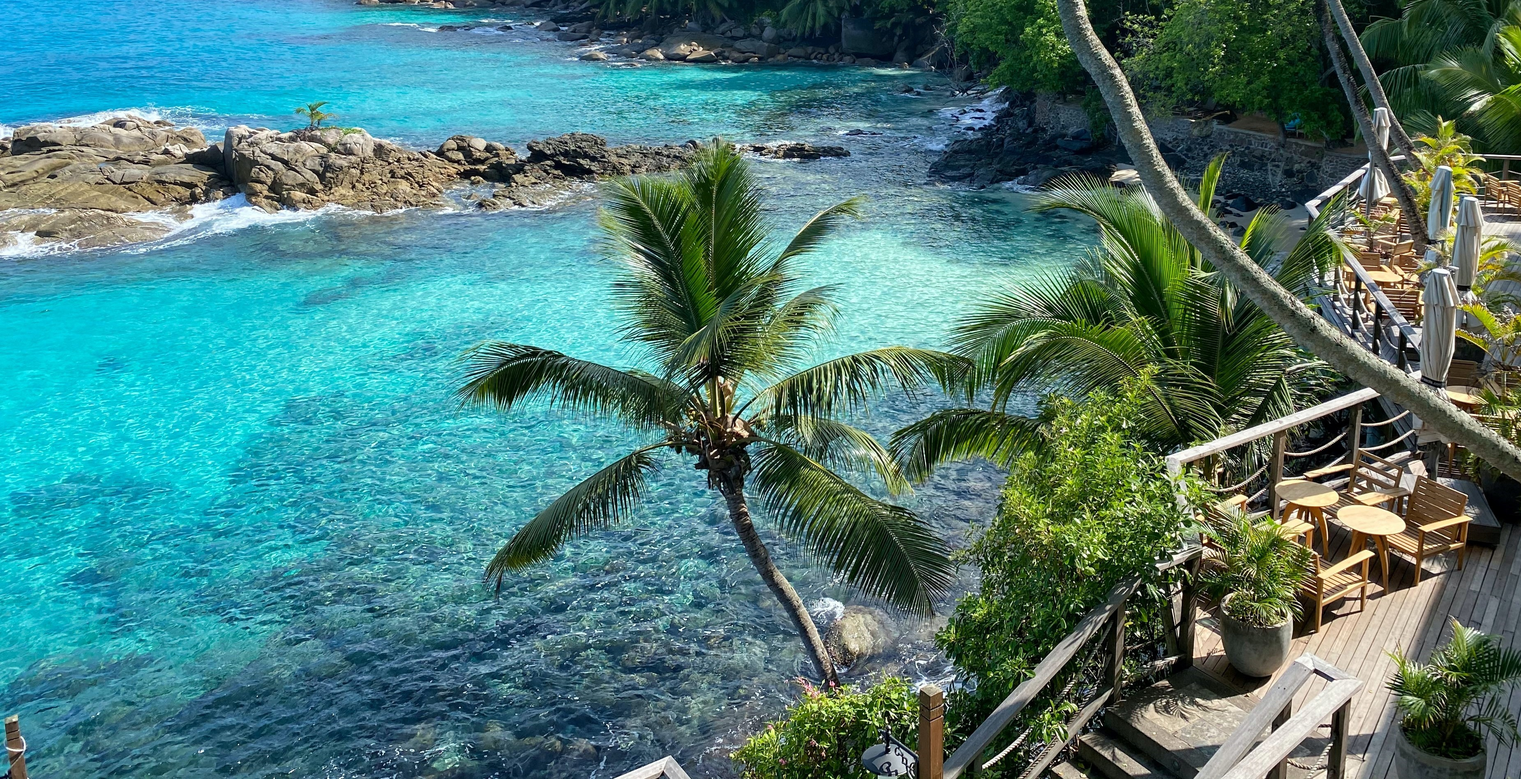
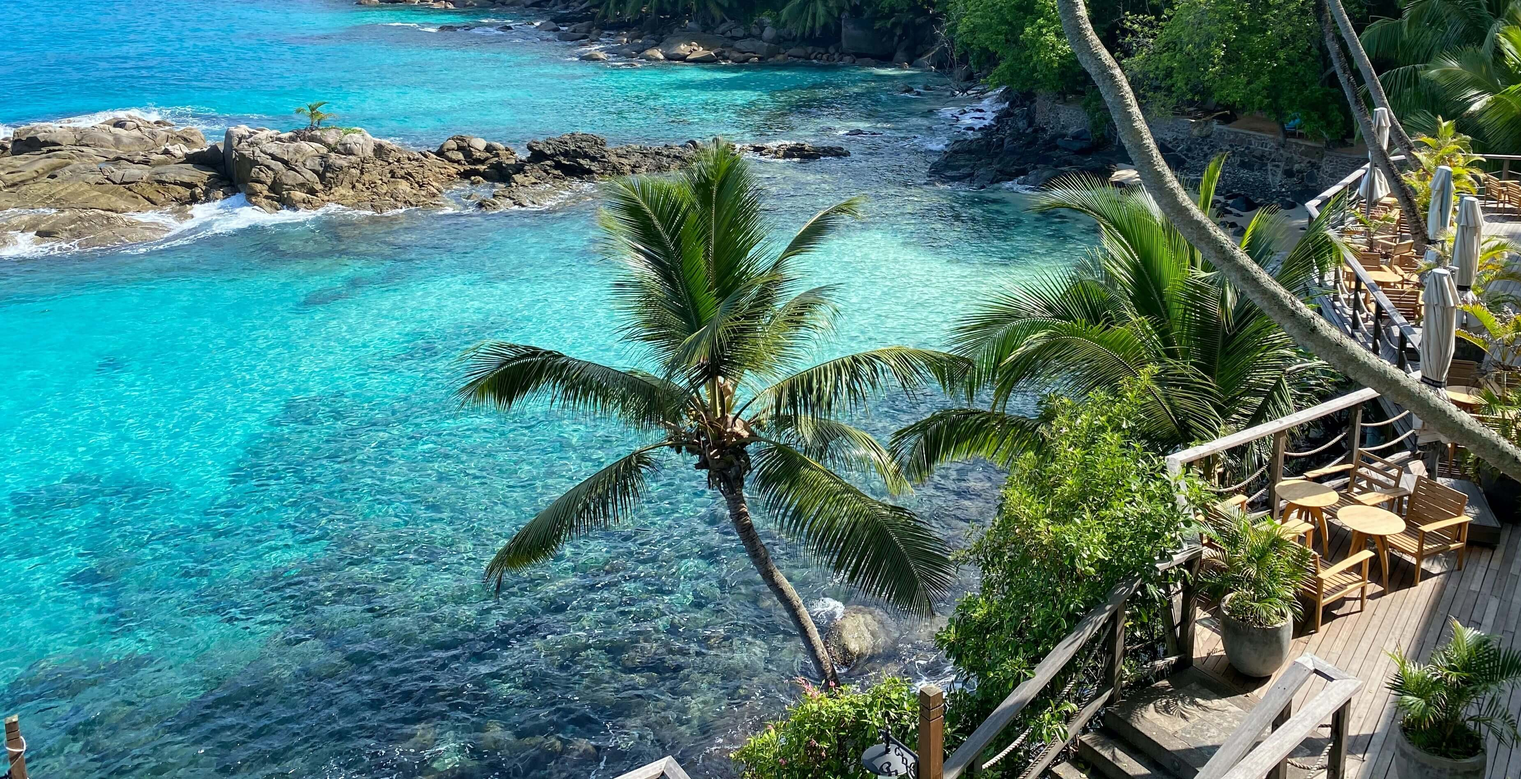
compress images

diff --git a/trippo/src/components/itinerariesView/ItinerariesView.styles.ts b/trippo/src/components/itinerariesView/ItinerariesView.styles.ts
@@ -12,7 +12,7 @@ export const FooterImage = styled.div`
 export const ItinerariesViewGrid = styled.div`
   margin-top: 64px;
   min-height: 100%;
-  background: url(palms.jpg) no-repeat fixed center;
+  background: url(/palms.jpg) no-repeat fixed center;
   background-size: cover;
   background-position: 0px 400px;
   left: 0;

diff --git a/trippo/src/components/welcomePage/WelcomePage.styles.ts b/trippo/src/components/welcomePage/WelcomePage.styles.ts
@@ -4,7 +4,7 @@ export const containerDiv = styled.div`
   display: flex;
   position: sticky;
   min-height: 100%;
-  background: url(welcome.png) no-repeat fixed center;
+  background: url(/welcome.png) no-repeat fixed center;
   background-size: cover;
   flex-direction: row-reverse;
   flex-wrap: wrap;
